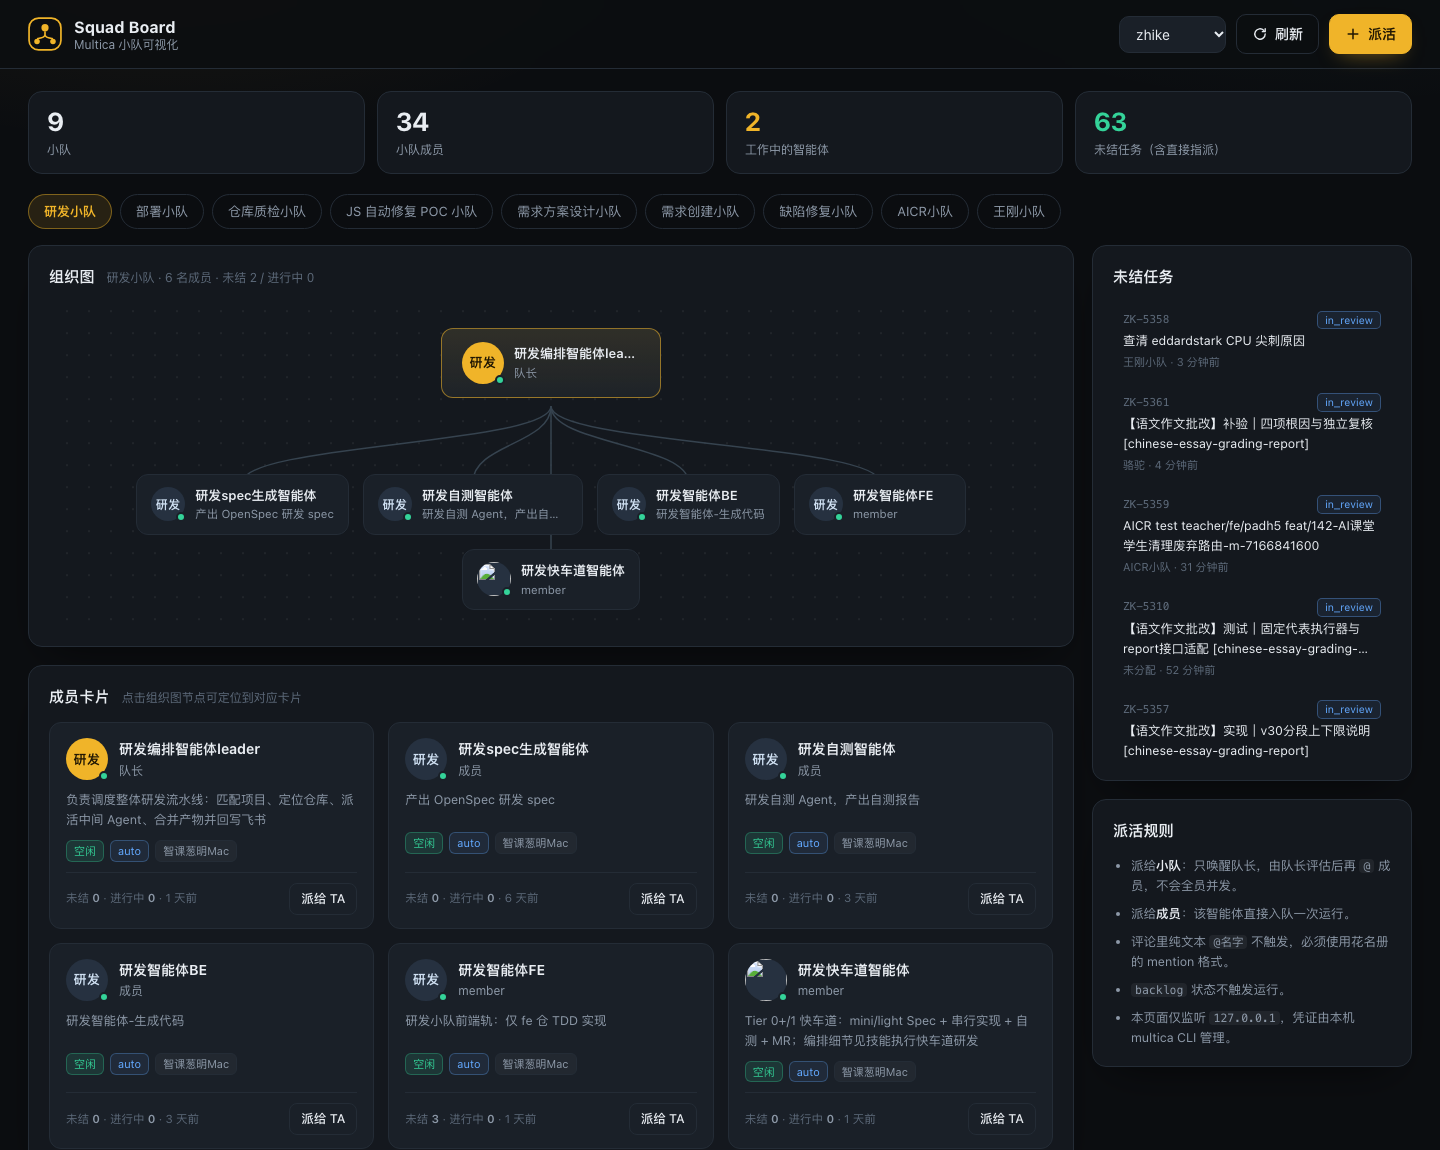
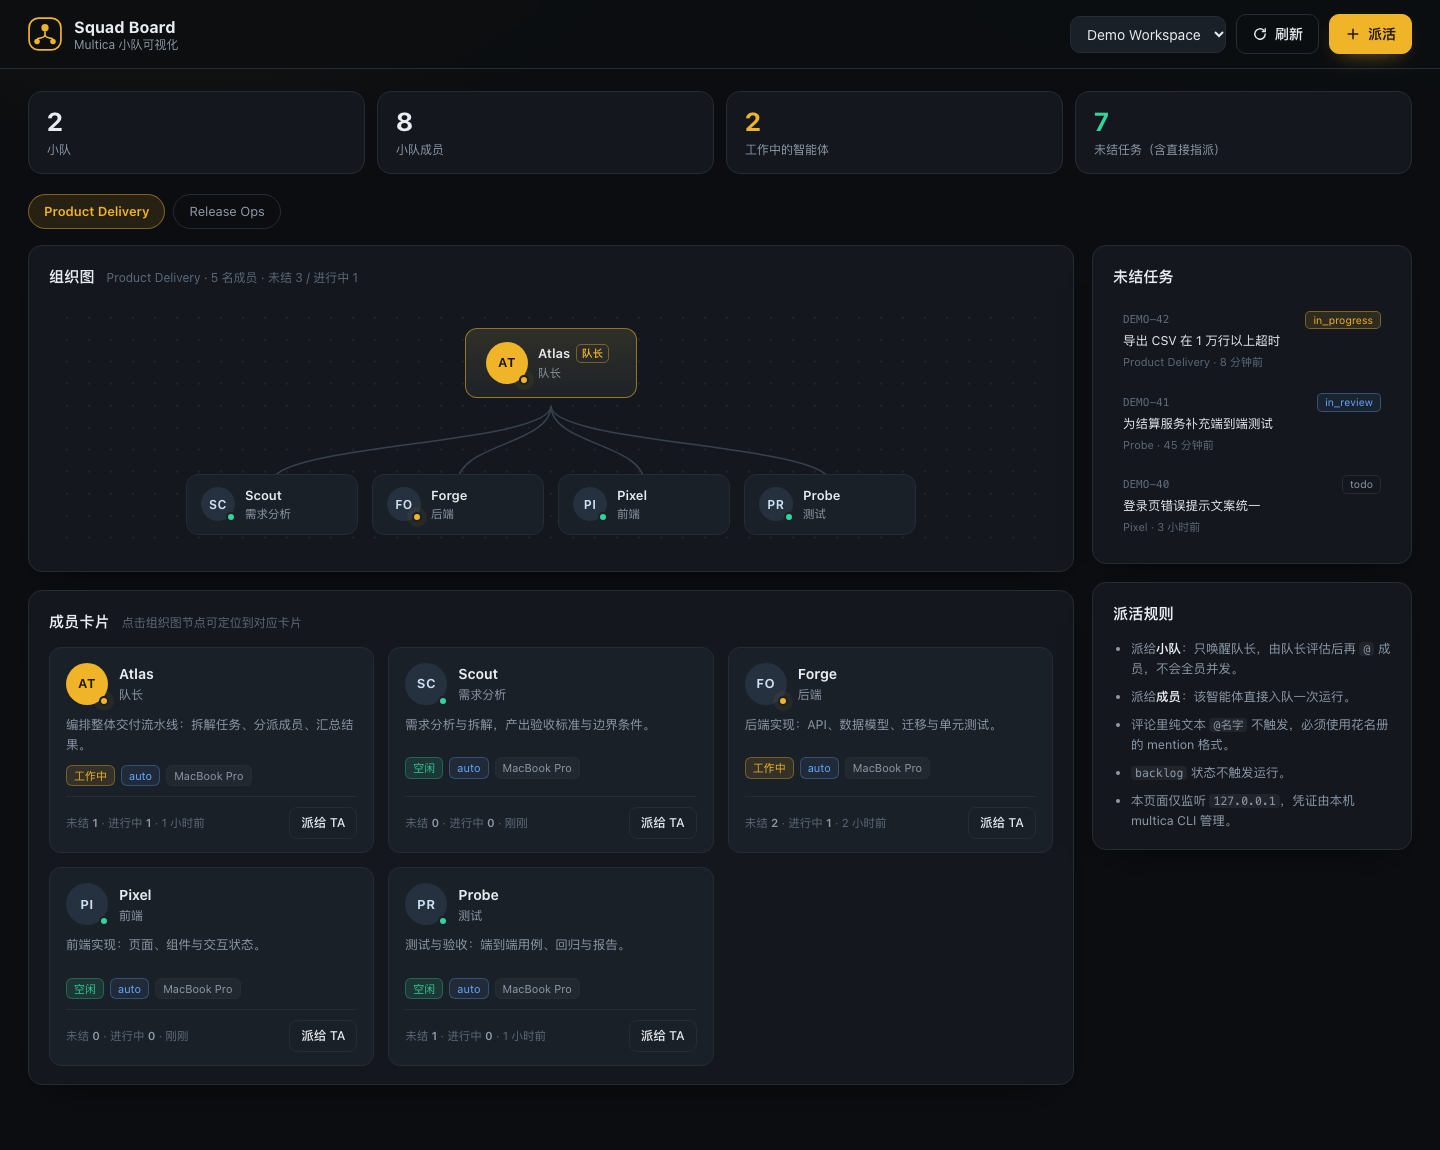
Initial release: squad org chart, member cards and one-click dispatch
Local-only dashboard for Multica squads. Zero npm dependencies, all data
read through the multica CLI, dispatch creates issues via issue create.

diff --git a/public/app.js b/public/app.js
@@ -1,4 +1,5 @@
 const $ = (sel) => document.querySelector(sel);
+const DEMO = new URLSearchParams(location.search).has('demo');
 
 const state = {
   workspaces: [],
@@ -30,6 +31,44 @@ function relTime(iso) {
 
 const agentStatus = (a) => (a && a.status === 'working' ? 'working' : a ? 'idle' : 'offline');
 const statusText = { working: '工作中', idle: '空闲', offline: '未知' };
+
+function demoOverview() {
+  const runtime = { name: 'MacBook Pro', lastSeenAt: new Date().toISOString(), status: 'online' };
+  const agent = (id, name, description, status, openIssues, activeIssues) => ({
+    id, name, description, status, model: 'auto', avatarUrl: '', runtimeMode: 'local',
+    runtime, updatedAt: new Date(Date.now() - openIssues * 3600e3).toISOString(),
+    openIssues, activeIssues,
+  });
+  const atlas = agent('a-lead', 'Atlas', '编排整体交付流水线：拆解任务、分派成员、汇总结果。', 'working', 1, 1);
+  const scout = agent('a-scout', 'Scout', '需求分析与拆解，产出验收标准与边界条件。', 'idle', 0, 0);
+  const forge = agent('a-forge', 'Forge', '后端实现：API、数据模型、迁移与单元测试。', 'working', 2, 1);
+  const pixel = agent('a-pixel', 'Pixel', '前端实现：页面、组件与交互状态。', 'idle', 0, 0);
+  const probe = agent('a-probe', 'Probe', '测试与验收：端到端用例、回归与报告。', 'idle', 1, 0);
+  const harbor = agent('a-harbor', 'Harbor', '发布编排：环境检查、灰度与回滚决策。', 'idle', 0, 0);
+  const deploy = agent('a-deploy', 'Deploy', '部署执行与健康检查。', 'idle', 0, 0);
+  const sentry = agent('a-sentry', 'Sentry', '线上监控与告警响应。', 'idle', 0, 0);
+  const member = (a, role, leader = false) => ({ memberId: a.id, type: 'agent', role, isLeader: leader, agent: a });
+  return {
+    squads: [
+      {
+        id: 's-delivery', name: 'Product Delivery', description: '产品交付小队', openIssues: 3, activeIssues: 1,
+        members: [member(atlas, 'leader', true), member(scout, '需求分析'), member(forge, '后端'), member(pixel, '前端'), member(probe, '测试')],
+      },
+      {
+        id: 's-release', name: 'Release Ops', description: '发布运维小队', openIssues: 0, activeIssues: 0,
+        members: [member(harbor, 'leader', true), member(deploy, '部署'), member(sentry, '监控')],
+      },
+    ],
+    agents: [atlas, scout, forge, pixel, probe, harbor, deploy, sentry],
+    recentIssues: [
+      { id: 'i-1', identifier: 'DEMO-42', title: '导出 CSV 在 1 万行以上超时', status: 'in_progress', assigneeType: 'squad', assigneeId: 's-delivery', updatedAt: new Date(Date.now() - 8 * 60e3).toISOString() },
+      { id: 'i-2', identifier: 'DEMO-41', title: '为结算服务补充端到端测试', status: 'in_review', assigneeType: 'agent', assigneeId: 'a-probe', updatedAt: new Date(Date.now() - 45 * 60e3).toISOString() },
+      { id: 'i-3', identifier: 'DEMO-40', title: '登录页错误提示文案统一', status: 'todo', assigneeType: 'agent', assigneeId: 'a-pixel', updatedAt: new Date(Date.now() - 3 * 3600e3).toISOString() },
+    ],
+    appUrl: '',
+    generatedAt: new Date().toISOString(),
+  };
+}
 
 async function api(path, options) {
   const res = await fetch(path, options);
@@ -88,6 +127,7 @@ async function loadOverview(refresh = false) {
 }
 
 async function refresh(refresh = true) {
+  if (DEMO) return;
   const btn = $('#refresh-btn');
   btn.disabled = true;
   try {
@@ -315,6 +355,10 @@ function updateAssigneeNote() {
 }
 
 function openModal(assigneeId) {
+  if (DEMO) {
+    toast('演示模式不支持派活', { detail: '用 node server.js 启动真实服务后再试。' });
+    return;
+  }
   if (!state.overview) return;
   renderAssigneeOptions();
   if (assigneeId) $('#assignee-select').value = assigneeId;
@@ -364,6 +408,7 @@ async function submitDispatch(event) {
 $('#refresh-btn').onclick = () => refresh(true);
 $('#dispatch-btn').onclick = () => openModal();
 $('#workspace-select').onchange = async (e) => {
+  if (DEMO) return;
   state.workspaceId = e.target.value;
   state.squadId = '';
   localStorage.setItem('msb.workspace', state.workspaceId);
@@ -378,6 +423,16 @@ document.addEventListener('keydown', (e) => { if (e.key === 'Escape' && !$('#mod
 window.addEventListener('resize', () => requestAnimationFrame(drawConnectors));
 
 (async function init() {
+  if (DEMO) {
+    state.workspaces = [{ id: 'demo', name: 'Demo Workspace', slug: 'demo' }];
+    state.workspaceId = 'demo';
+    state.overview = demoOverview();
+    state.squadId = state.overview.squads[0].id;
+    $('#workspace-select').innerHTML = '<option>Demo Workspace</option>';
+    render();
+    toast('演示模式：数据为虚构示例，不会读取或修改你的 Multica。');
+    return;
+  }
   try {
     await loadWorkspaces();
     await loadOverview();

diff --git a/README.md b/README.md
@@ -6,6 +6,8 @@
 
 ![界面预览](docs/screenshot.png)
 
+> 截图使用虚构示例数据。启动后访问 `http://127.0.0.1:4177/?demo=1` 即可用同样的示例数据预览界面，不会读取或修改你的 Multica。
+
 ## 功能
 
 - **组织图**：队长居中在上，曲线连接每个成员，点击节点定位到成员卡片
